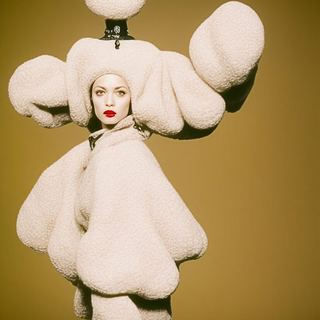
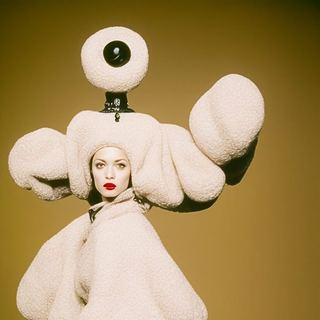
Compose the mosaic by colour, and in five shapes
Latent Couture is shot tall, so its fourteen banner tiles are now cropped from
the top in both tiers, the way its cards already were. A centre crop was taking
the headpieces off.

Beyond that the band no longer places tiles at random. Each carries two base36
digits, lightness and warmth, and two slow waves drift across the band; each
tile is chosen from the last few in the bag by whichever sits closest to the
field there. So the mosaic gathers into dark and light passages and warm and
cool ones instead of averaging into noise. Hue alone was no use -- 84 of 223
tiles fall in one warm bin, mostly the cents -- but lightness spans the range
evenly, so it carries three times the weight.

Blocks now come in five shapes rather than three squares, and every band gets
one full-height anchor across the middle.

Two bugs found by looking at renders rather than at code. The two rectangle
orientations shared a roll, so wide always won and no tall block was ever
placed. And the anchor was setting the column that the spacing check reads
before the walk began, which failed every column to its left and left the whole
half flat. Cents also fired the moment their share dipped, which put one right
after every large block at a cadence you could read across the band; the odds
now rise with the shortfall instead.

diff --git a/home.html b/home.html
@@ -228,45 +228,86 @@ SEED=(()=>{const q=new URLSearchParams(location.search).get("mosaic");
 const prng=s=>()=>{s=s+0x6D2B79F5|0;let t=Math.imul(s^s>>>15,1|s);
   t=t+Math.imul(t^t>>>7,61|t)^t;return((t^t>>>14)>>>0)/4294967296;};
 
+/* Two axes per tile, one base36 digit each: lightness, then warmth. Warmth is
+   how far the tile leans toward copper or away from it, scaled by how colourful
+   it is, so greys sit mid-scale on their own and go anywhere. */
[1 lines of base64/hex data omitted]
+  lum=i=>parseInt(CL[(i-1)*2],36)/35,
+  warm=i=>parseInt(CL[(i-1)*2+1],36)/35;
+
 function mosaic(id,art,cts,p){
   const rows=MQ.matches?2:3, cell=MQ.matches?46:54, cols=MQ.matches?46:58,
         R=prng(SEED+p.salt), q={};
-  /* draw from a shuffled bag and refill it, so a tile cannot recur nearby */
-  const pick=(kind,src,big)=>{
+  /* Two slow waves drift across the band, one in lightness and one in warmth.
+     Tiles are chosen to follow them, so the mosaic gathers into dark and light
+     passages and warm and cool ones instead of averaging out into noise. */
+  const f1=1+R()*1.8, f2=.7+R()*1.4, a1=R()*6.283, a2=R()*6.283,
+        fieldL=t=>.5+.38*Math.sin(t*6.283*f1+a1),
+        fieldW=t=>.5+.42*Math.sin(t*6.283*f2+a2);
+  /* Draw from a shuffled bag, but look at the last few and take whichever sits
+     closest to the field here. A small window keeps it a lean, not a sort. */
+  const pick=(kind,src,big,tL,tW)=>{
     const key=kind+(big?"L":"S");let bag=q[key];
     if(!bag||!bag.length){bag=q[key]=src.filter(i=>!big||!SMALLONLY.has(i));
       for(let i=bag.length-1;i>0;i--){const j=R()*(i+1)|0,v=bag[i];bag[i]=bag[j];bag[j]=v;}}
-    return bag.pop();};
-  const occ=Array.from({length:rows},()=>new Array(cols).fill(false)),
-    free=(r,c,s)=>{for(let i=0;i<s;i++)for(let j=0;j<s;j++)
-      if(r+i>=rows||c+j>=cols||occ[r+i][c+j])return false;return true;},
-    mark=(r,c,s)=>{for(let i=0;i<s;i++)for(let j=0;j<s;j++)occ[r+i][c+j]=true;};
+    if(tL==null)return bag.pop();
+    let at=bag.length-1,bd=1e9;
+    for(let n=Math.max(0,bag.length-7);n<bag.length;n++){
+      const i=bag[n],d=3*Math.abs(lum(i)-tL)+Math.abs(warm(i)-tW);
+      if(d<bd){bd=d;at=n;}}
+    return bag.splice(at,1)[0];};
   const grid=()=>Array.from({length:rows},()=>new Array(cols).fill(false)),
-    bare=grid(),cent=grid(),
+    occ=grid(),bare=grid(),cent=grid(),
     nextTo=(g,r,c)=>{for(let i=-1;i<2;i++)for(let j=-1;j<2;j++){
       const y=r+i,x=c+j;if(y>=0&&y<rows&&x>=0&&x<cols&&g[y][x])return true;}
-      return false;};
+      return false;},
+    free=(r,c,w,h)=>{for(let i=0;i<h;i++)for(let j=0;j<w;j++)
+      if(r+i>=rows||c+j>=cols||occ[r+i][c+j])return false;return true;},
+    mark=(r,c,w,h)=>{for(let i=0;i<h;i++)for(let j=0;j<w;j++)occ[r+i][c+j]=true;};
   let out="",last=-9,cells=0,cent6=0;
+  const put=(r,c,w,h)=>{
+    mark(r,c,w,h);cells+=w*h;if(w>1||h>1)last=c;
+    const t=c/cols,big=w>1||h>1;
+    out+='<img src="'+T(pick("a",art,big,fieldL(t),fieldW(t)),big)+
+      '" alt="" loading="lazy" style="grid-area:'+(r+1)+'/'+(c+1)+
+      '/span '+h+'/span '+w+'">';};
+  /* every band gets one block at full height, somewhere across the middle, so
+     the composition has an anchor rather than relying on the dice */
+  if(rows>2){const fc=(cols*(.18+.64*R()))|0,fw=R()<.5?3:2;
+    if(free(0,fc,fw,3))put(0,fc,fw,3);
+    last=-9;}   /* the anchor must not set the spacing clock, or every column
+                   to its left fails c-last and the whole half goes flat */
   for(let c=0;c<cols;c++)for(let r=0;r<rows;r++){
     if(occ[r][c])continue;
-    const roll=R();let s=1;
-    if(rows>2&&roll<p.p3&&c-last>4&&free(r,c,3))s=3;
-    else if(roll<p.p2&&c-last>1&&free(r,c,2))s=2;
-    if(s>1)last=c;
-    mark(r,c,s);
-    const area="grid-area:"+(r+1)+"/"+(c+1)+"/span "+s+"/span "+s;
-    if(s===1&&R()<p.bare&&!nextTo(bare,r,c)){    /* a rest in the field */
-      cells++;bare[r][c]=true;
-      if(R()<0.22)out+='<span style="'+area+'"></span>';
-      continue;}
-    /* Hold cents near a sixth of the area. They stay one cell -- a penny is
-       small, bright and round, and enlarged it pulls the eye off the works
-       around it -- and never touch each other: after a large block the area
-       rule wants to catch up, and left alone it lays them in a run. */
-    const isc=s===1&&cent6*6<cells&&!nextTo(cent,r,c);
-    cells+=s*s; if(isc){cent6++;cent[r][c]=true;}
-    out+='<img src="'+T(pick(isc?"c":"a",isc?cts:art,s>1),s>1)+
-         '" alt="" loading="lazy" style="'+area+'">';
+    let w=1,h=1;
+    /* the two rectangles take turns going first, or wide always wins the roll
+       and the band never gets a tall block */
+    const rect=R()<.5?[[2,1],[1,2]]:[[1,2],[2,1]],
+      tries=rows>2
+      ?[[3,3,p.p3],[2,3,p.p3*1.3],[2,2,p.p2],[rect[0][0],rect[0][1],p.rect],
+        [rect[1][0],rect[1][1],p.rect]]
+      :[[2,2,p.p2],[rect[0][0],rect[0][1],p.rect],[rect[1][0],rect[1][1],p.rect]];
+    for(const [tw,th,pr] of tries)
+      if(R()<pr&&c-last>=(tw>2||th>2?4:1)&&free(r,c,tw,th)){w=tw;h=th;break;}
+    if(w===1&&h===1){
+      if(R()<p.bare&&!nextTo(bare,r,c)){        /* a rest in the field */
+        mark(r,c,1,1);cells++;bare[r][c]=true;
+        if(R()<0.22)out+='<span style="grid-area:'+(r+1)+'/'+(c+1)+'/span 1/span 1"></span>';
+        continue;}
+      /* Cents hold near a sixth of the area. They stay one cell -- a penny is
+         small, bright and round, and enlarged it pulls the eye off the works
+         around it -- and never touch, or the area rule lays them in a run. */
+      /* Placing one the moment the share dips puts a penny straight after every
+         large block, at a cadence you can read across the band. Let the odds
+         rise with the shortfall instead, so they still average a sixth but
+         land irregularly. */
+      if(R()<Math.min(.85,Math.max(0,cells/6-cent6)*.32)&&!nextTo(cent,r,c)){
+        mark(r,c,1,1);cells++;cent6++;cent[r][c]=true;
+        out+='<img src="'+T(pick("c",cts,false),false)+
+          '" alt="" loading="lazy" style="grid-area:'+(r+1)+'/'+(c+1)+'/span 1/span 1">';
+        continue;}
+    }
+    put(r,c,w,h);
   }
   const el=document.getElementById(id);
   el.style.gridTemplateRows="repeat("+rows+","+cell+"px)";
@@ -276,8 +317,8 @@ function mosaic(id,art,cts,p){
 /* the upper band runs finer, the lower one coarser, so they read as a pair
    rather than a repeat */
 const drawBands=()=>{
-  mosaic("ban", rng(1,93),   rng(187,204),{salt:0,p3:0.06,p2:0.22,bare:0.045});
-  mosaic("ban2",rng(94,186), rng(205,223),{salt:1,p3:0.11,p2:0.32,bare:0.035});
+  mosaic("ban", rng(1,93),   rng(187,204),{salt:0,p3:.05,p2:.15,rect:.20,bare:.045});
+  mosaic("ban2",rng(94,186), rng(205,223),{salt:1,p3:.08,p2:.22,rect:.28,bare:.035});
 };
 drawBands();
 MQ.addEventListener("change",drawBands);

diff --git a/NOTES.md b/NOTES.md
@@ -294,7 +294,22 @@ lower coarser, so the pair does not read as a repeat. The seed comes from the
 clock — **`?mosaic=<n>` pins it**, which is the only way to compare two runs or
 to reproduce something you saw.
 
-Three rules that took a couple of passes to get right:
+**The composition is colour-led.** Each tile carries two base36 digits in the
+`CL` string in `home.html` — lightness, then warmth, where warmth is how far the
+tile leans toward copper scaled by how colourful it is, so greys land mid-scale
+and go anywhere. Two slow waves drift across the band, one per axis, and each
+tile is chosen from the last seven in the bag by whichever sits closest to the
+field there. A small window keeps it a lean rather than a sort. Hue on its own
+is no good for this: 84 of the 223 tiles fall in one warm bin, mostly the
+copper cents. Lightness spans 0.10 to 0.94 evenly and is the axis worth
+composing on, so it is weighted three to one.
+
+Blocks come in five shapes — 1×1, 2×1, 1×2, 2×2 and 3×3, plus a 2×3 — and every
+band gets one full-height anchor somewhere across the middle so the composition
+does not depend on the dice. Large blocks end up covering half the upper band
+and about sixty per cent of the lower one.
+
+Five rules that took a couple of passes to get right:
 
 - **Draw from a bag keyed by size class.** One shared bag lets a large block
   draw a tile that only exists at 160 px, and you get a broken image.
@@ -304,6 +319,21 @@ Three rules that took a couple of passes to get right:
   works around it.
 - **Keep bare cells apart.** Two touching rests merge into what looks like a
   hole rather than a pause.
+- **Let the two rectangle orientations take turns going first.** Sharing one
+  roll means wide always wins it and the band never gets a tall block.
+- **The anchor must not set the spacing clock.** It is placed before the walk
+  starts, so if it updates the `last` column that the `c - last` spacing check
+  reads, every column to its left fails the check and the whole half comes out
+  flat. This one is invisible in the code and obvious in a render.
+- **Place cents on rising odds, not on a threshold.** Firing the moment the
+  running share dips below a sixth drops a penny straight after every large
+  block, at a cadence you can read across the band. Letting the probability
+  rise with the shortfall still averages a sixth but lands irregularly.
+
+Latent Couture is shot tall, so its fourteen banner tiles — `b017 b022 b025
+b040 b046 b063 b091 b099 b117 b122 b151 b164 b178 b185` — are cropped from the
+top in both tiers, or the square crop takes the headpieces off. The same applies
+to its cards, which use `object-position: top`.
 
 The old uniform-grid version flowed in columns of three, which meant a cent
 every sixth tile landed every cent in the same row; it rotated the slot by
